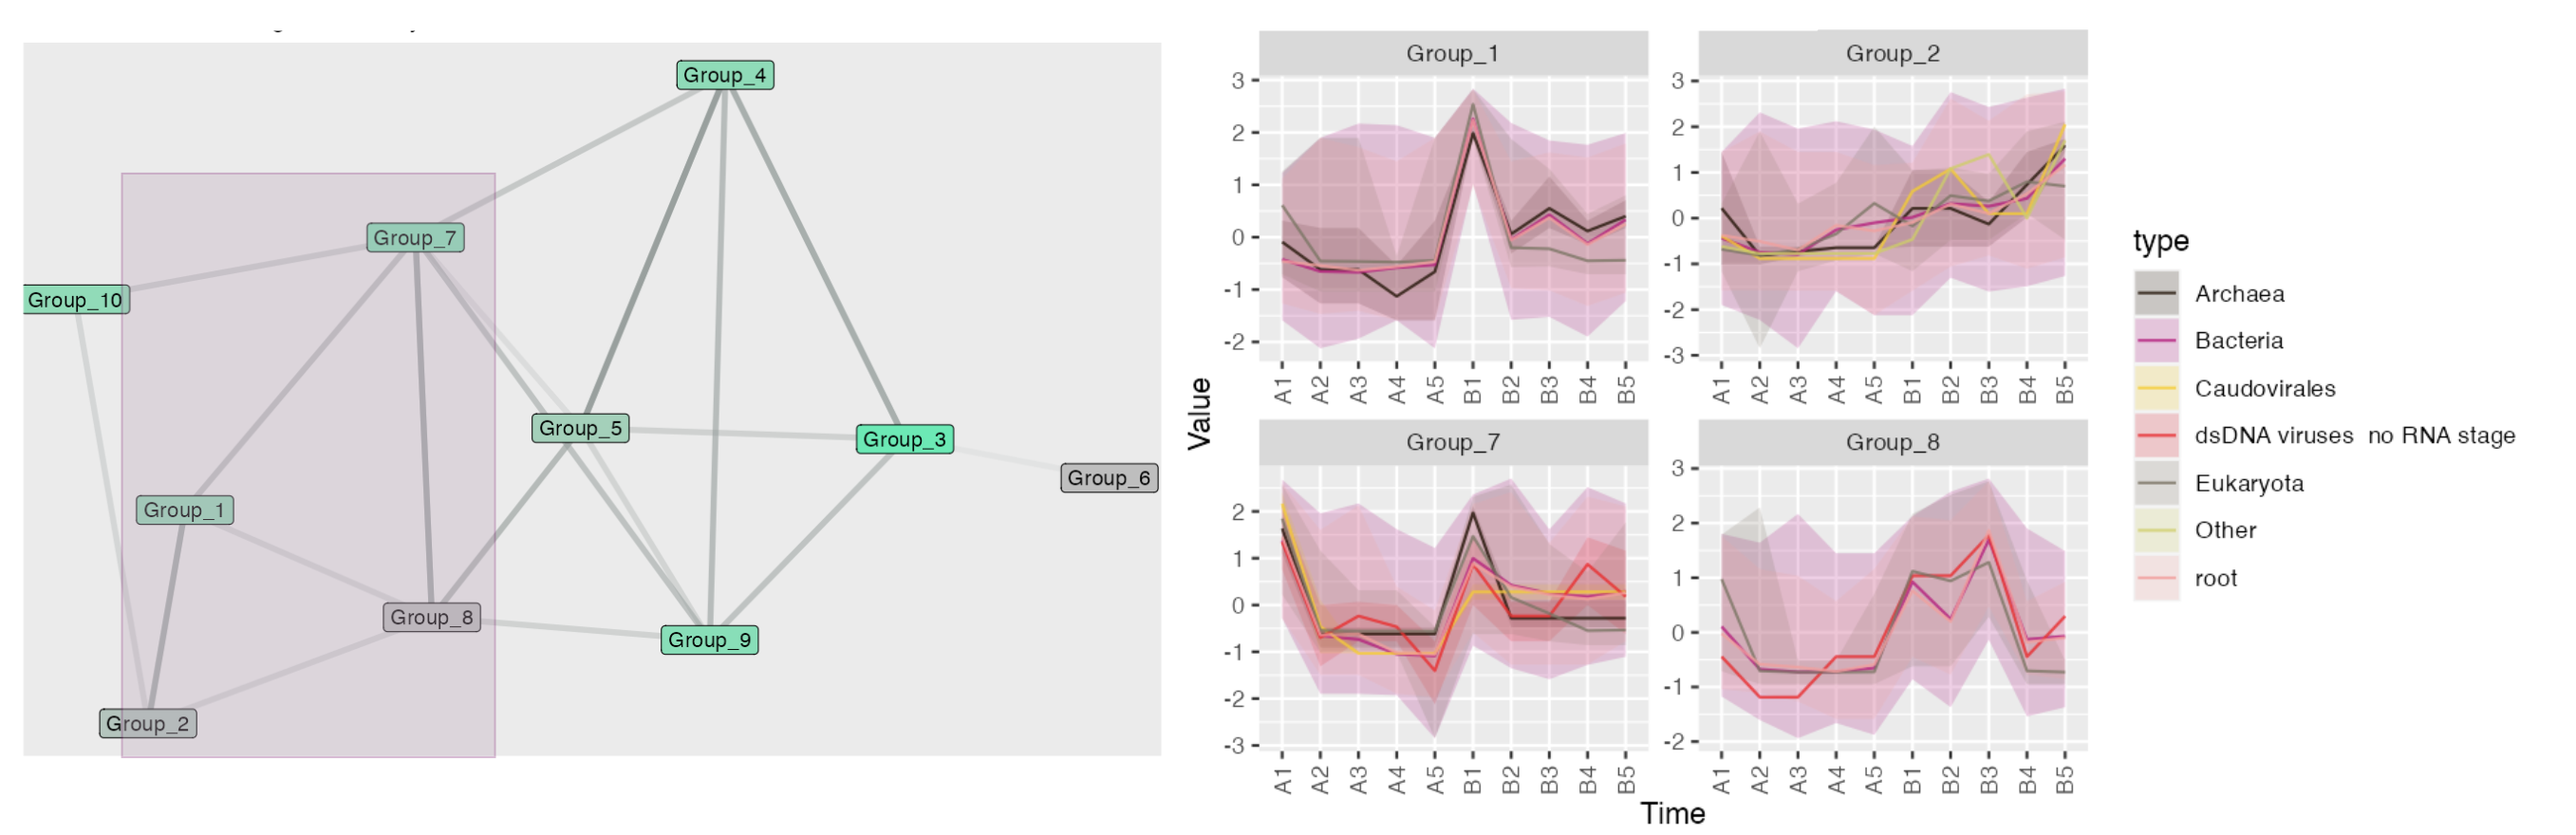
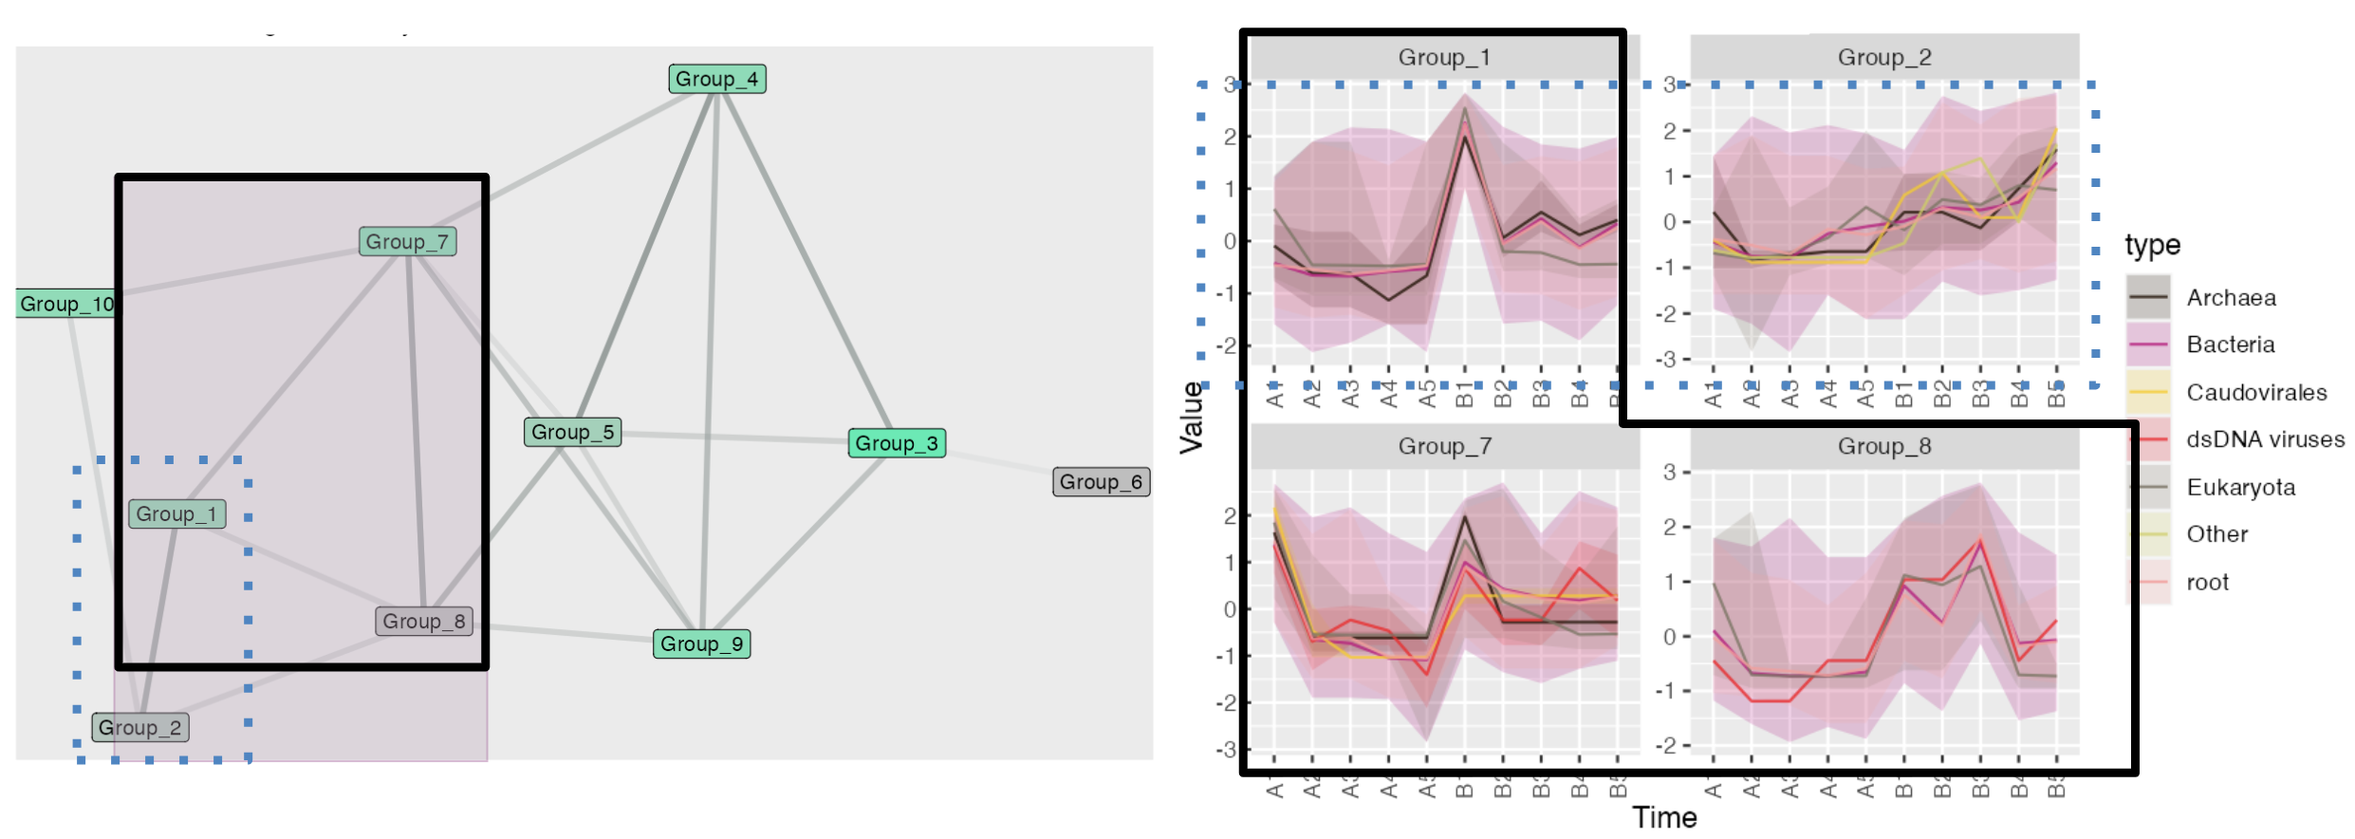
pp

Changed region(s): [[0.4033, 0.0307, 1.0, 0.9818], [0.0, 0.0614, 0.4033, 0.9205], [0.3413, 0.3375, 0.3723, 0.3989]]

diff --git a/paper/paper.md b/paper/paper.md
@@ -64,7 +64,7 @@ The source code for `MolPad` is stored on [Github](https://github.com/KaiyanM/Mo
 
 ![Dashboard Overview: `A`: cluster-level network, `B`: taxonomic-level bar plot, `C`:  a type-level line plot, and `D`: a feature-level table. \label{fig:dashboard}](dashboard.png)
 
-![Example of discovering related patterns with network plot. The shade of edges stands for relevancy. In the brushed area, there are two strongest pairs 1-2 and 7-8. For Groups 1, 7, and 8, the patterns are w-shape with an evident peak at the same time section. For Groups 1 and 2, although Group 1 has higher volatility, they both follow highly overlapped increasing trends.\label{fig:pattern}](pattern.png){ width=110% }
+![Example of discovering related patterns with network plot. The shade of edges stands for relevancy. In the brushed area, Groups 1-7-8 (circled by solid black lines) and 1-2 (circled by blue dashed lines) are strongly linked. For Groups 1, 7, and 8, the patterns are w-shape with an evident peak at the same time section. For Groups 1 and 2, although Group 1 has higher volatility, they both follow highly overlapped increasing trends.\label{fig:pattern}](pattern.png){ width=110% }
 
 ![Dashboard showing Groups 10, 7, 4, and 3 for the bacterial (a.) and Group 4 for the eukaryotic (b.) community. Groups 10 and 4 have decreasing trends for both cheeses, and they all include largely Proteobacteria and Firmicutes. While Groups 3 and 7 have the opposite increasing trends, which include more Actinobacteria and Bacteroidetes. Among these, Groups 7 and 4 have the strongest periodicity, suggesting a more reproducible tendency for the corresponding main components. For the eukaryote community, most of the features followed the same stable pattern as in Group 4. \label{fig:cheesecase}](cheesecase.png){ width=80% }
 
